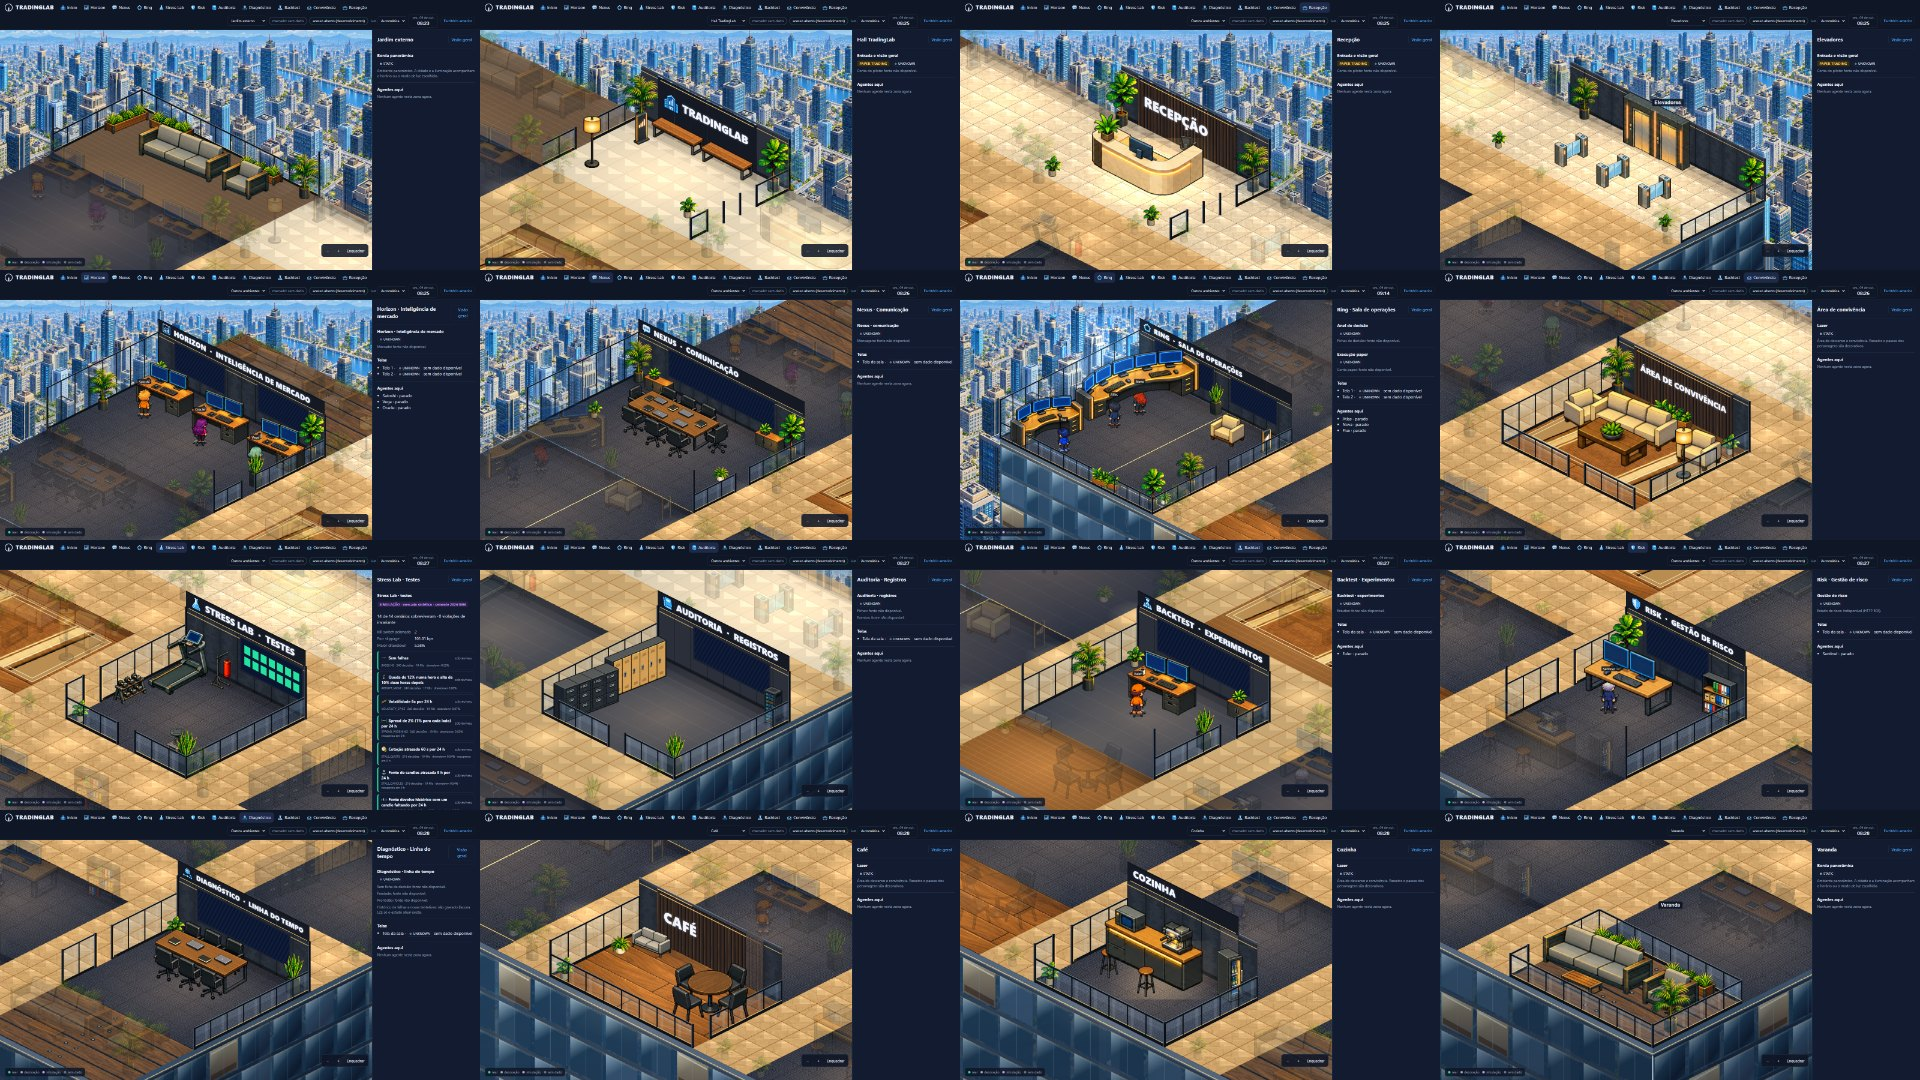
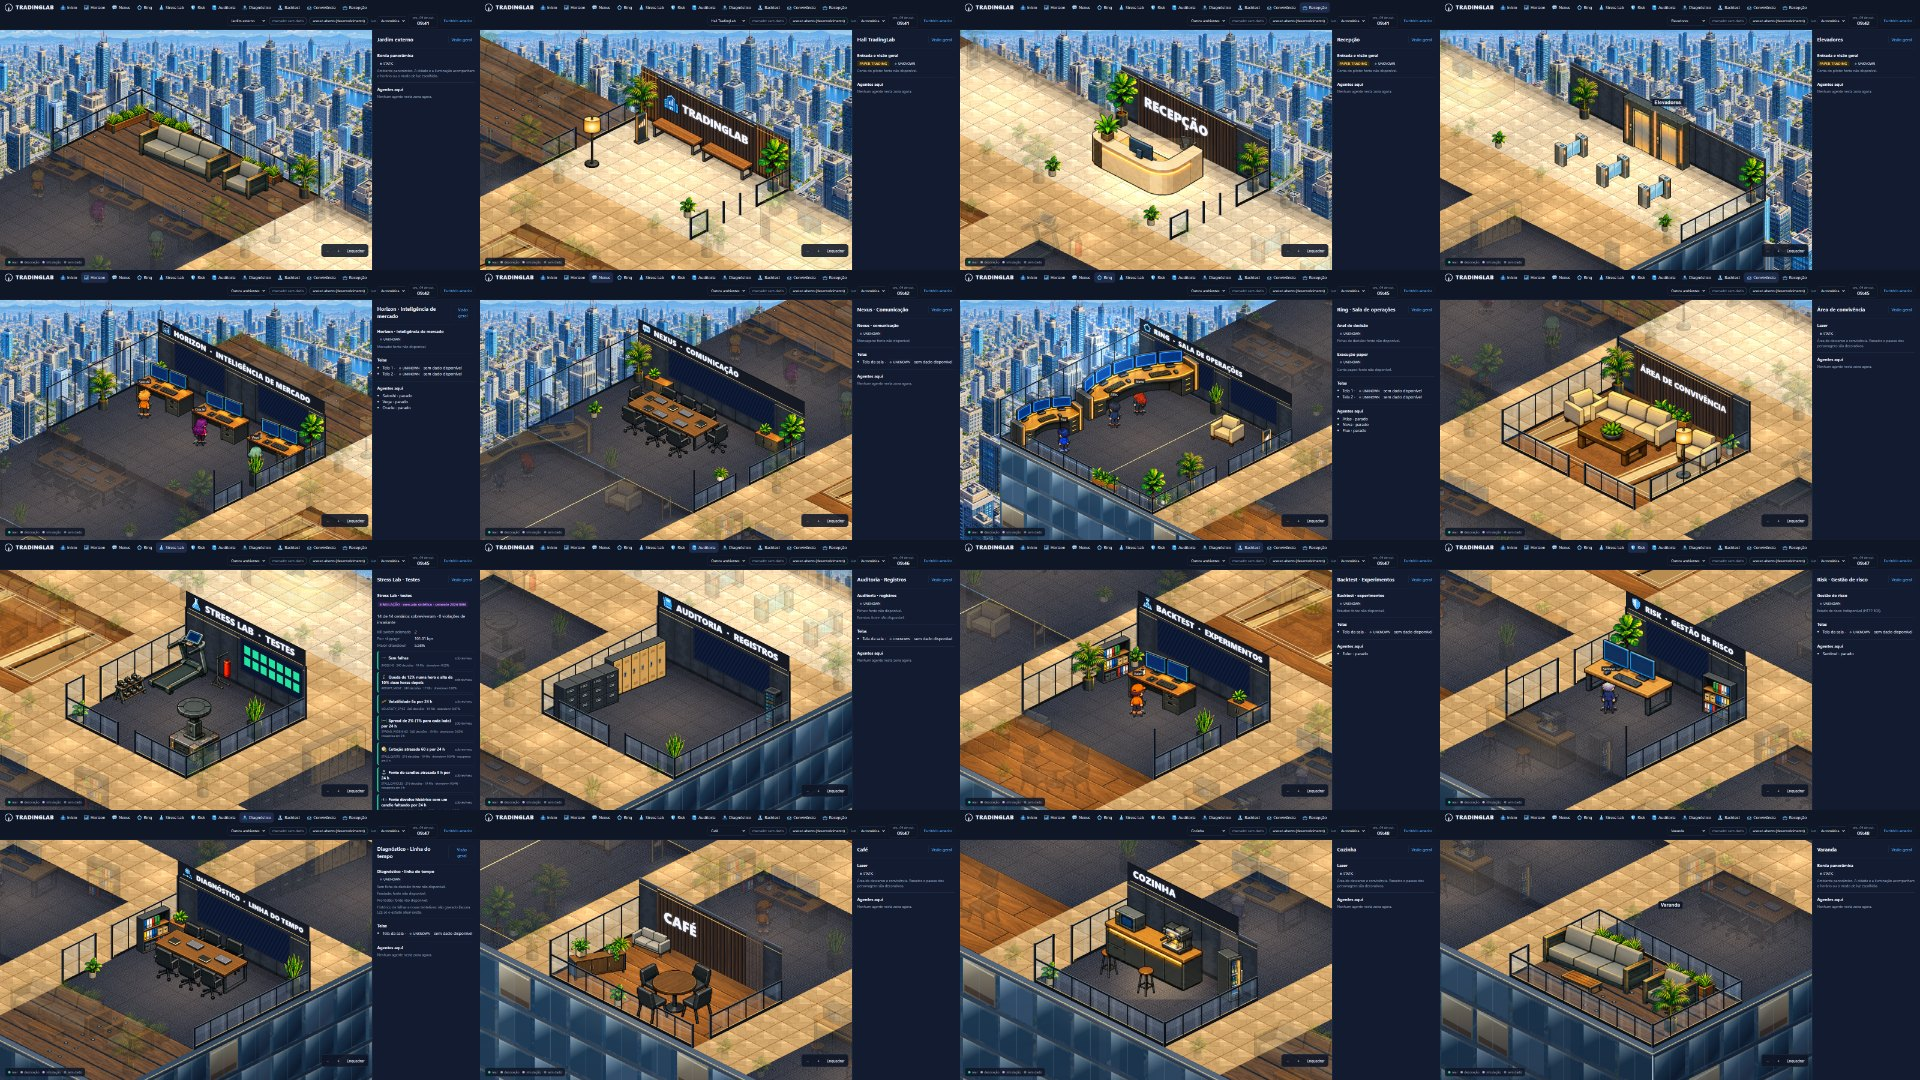
Escritório 2.0: acabamento nas salas e checagem da escala da arte
Café ganha o aparador na parede esquerda, Diagnóstico ganha armário e estante, Backtest ganha estante,
Stress Lab ganha a bancada de testes em tamanho certo. O autor da planta e um teste agora recusam
móvel cuja arte sairia a menos de 45% do losango da pegada (o aparador em 3×1 saía invisível).

diff --git a/test/office2-planta.test.ts b/test/office2-planta.test.ts
@@ -96,3 +96,12 @@ test('F8: móveis com frente ficam de costas para uma parede de trás, com a ori
  // as telas de dados ficam acima dos móveis baixos: faixa de 22 a 70 px
  assert.match(readFileSync('public/office2/scene.js','utf8'),/bottom=22;/);
 });
+
+test('F8: nenhuma arte sai minúscula: a largura final de cada móvel é pelo menos 45% do losango da pegada',()=>{
+ const manifest=JSON.parse(readFileSync('public/office2/art/manifesto.json','utf8')).props,supports=JSON.parse(readFileSync('public/office2/art/apoios.json','utf8')).supports;
+ const iso=runtime().Office2Iso.create(map);
+ for(const p of map.props.filter((p:any)=>p.blocking!==false)){
+  const info=manifest[p.asset],place=iso.propPlacement(p,info,supports[p.asset]),largura=info.width*place.s,losango=(p.footprint.a+p.footprint.b)*24;
+  assert.ok(largura>=0.45*losango,`${p.asset} (${p.tile.i},${p.tile.j}) sai a ${Math.round(largura)} px, só ${Math.round(100*largura/losango)}% do losango`);
+ }
+});

diff --git a/docs/design/OFFICE_2_F8_PLANTA.md b/docs/design/OFFICE_2_F8_PLANTA.md
@@ -31,6 +31,7 @@ Todas são conferidas por `scripts/assets/office2-layout.mjs` (que recusa gravar
 4. **Cada sala declara as bordas.** `edges` diz o tipo de cada lado; sem tipo, não há parede. Tipos: `parede-painel`, `parede-marca`, `fachada-vidro`, `divisoria-vidro`, `divisoria-vidro-baixa`, `guarda-corpo-vidro`, `divisoria-baixa`, `aberta`.
 5. **Portas e circulação.** Cada porta tem um tile livre dentro e outro fora. Todos os postos e pontos de lazer têm rota a partir da chegada, e nenhuma sala fica com menos de 35% do piso livre.
 6. **Móveis encostados nas paredes, com a frente para a sala.** Cada peça com frente (sofá, poltrona, mesa de trabalho, arquivo, armário, bancada, geladeira, esteira) declara a parede em que apoia as costas. A arte de todas vem desenhada com a frente para +i e as costas para −i; espelhada, a frente olha para +j. Logo, **parede de fundo direita (`j0`): espelhada, de frente para o sudoeste; parede de fundo esquerda (`i0`): sem espelho, de frente para o sudeste.** A orientação sai da parede, e não do formato do retângulo. Como só existem frentes voltadas para a câmera, peça com frente não vai nas bordas da frente. A folga até a parede é de no máximo 1 tile, e o centro da sala fica livre. Exceções por natureza: tapete, mesa de centro, mesas de reunião e de café, balcão da recepção, catracas, banquetas e a bancada de testes. Cada móvel tem posição e ocupação em tiles, sem sobreposição, sem tapar porta ou posto, e um posto de trabalho fica de frente para a mesa.
+   **Escala da arte:** a arte é encolhida para caber no eixo mais apertado da pegada. O autor da planta e um teste exigem que a largura final de cada móvel seja pelo menos 45% do losango da pegada; com pegada fina demais a peça some (o aparador em 3×1 saía a 16% e ficava invisível).
 7. **Telas só com dado real, e visíveis.** As dez telas ficam na parede `j0`, na faixa de 22 a 70 px de altura, acima dos móveis baixos; nada alto fica na frente de uma tela. Sem dado, ficam apagadas. Sala com tela leva a placa em faixa por cima dela.
 
 ## Desenho
